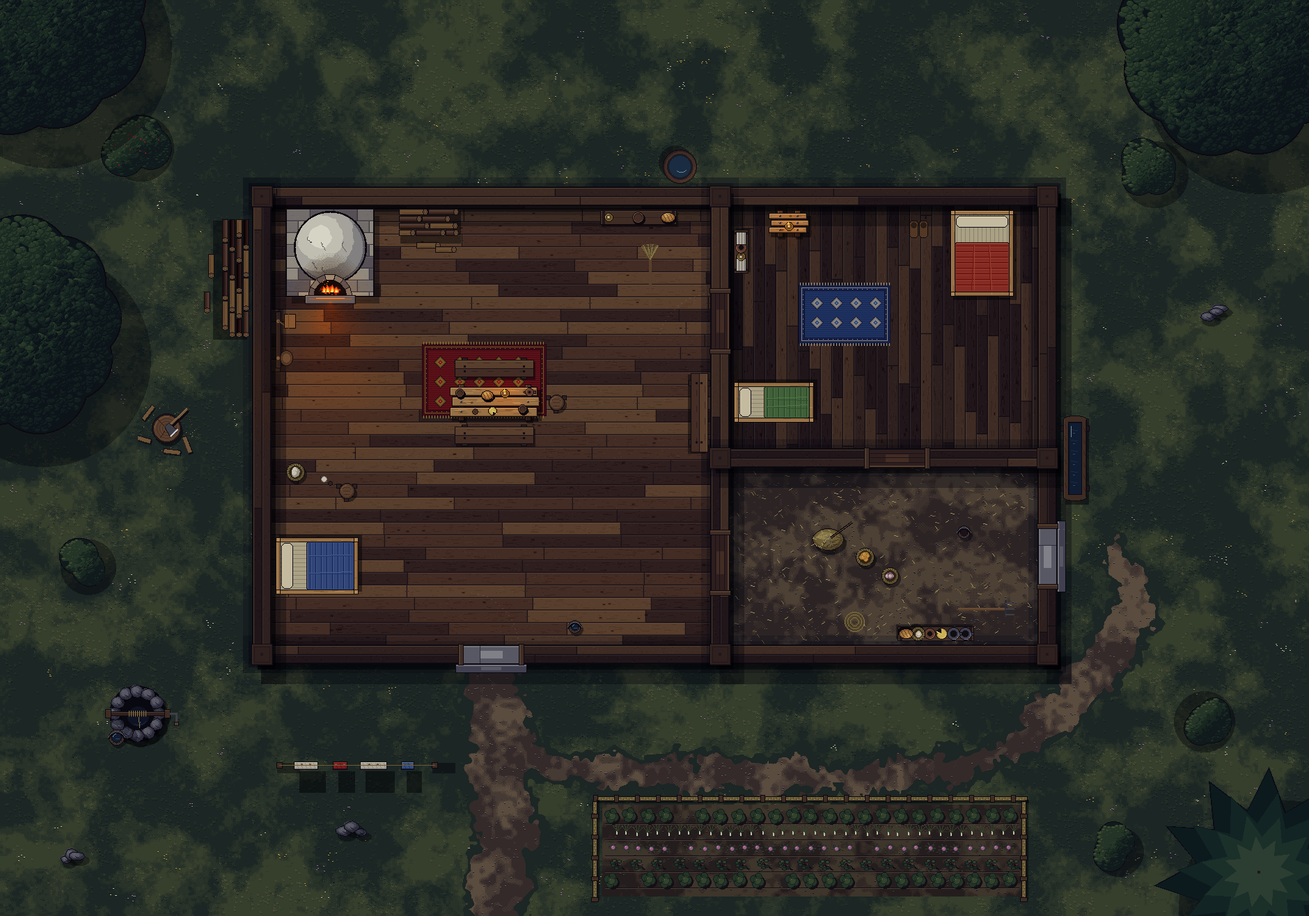
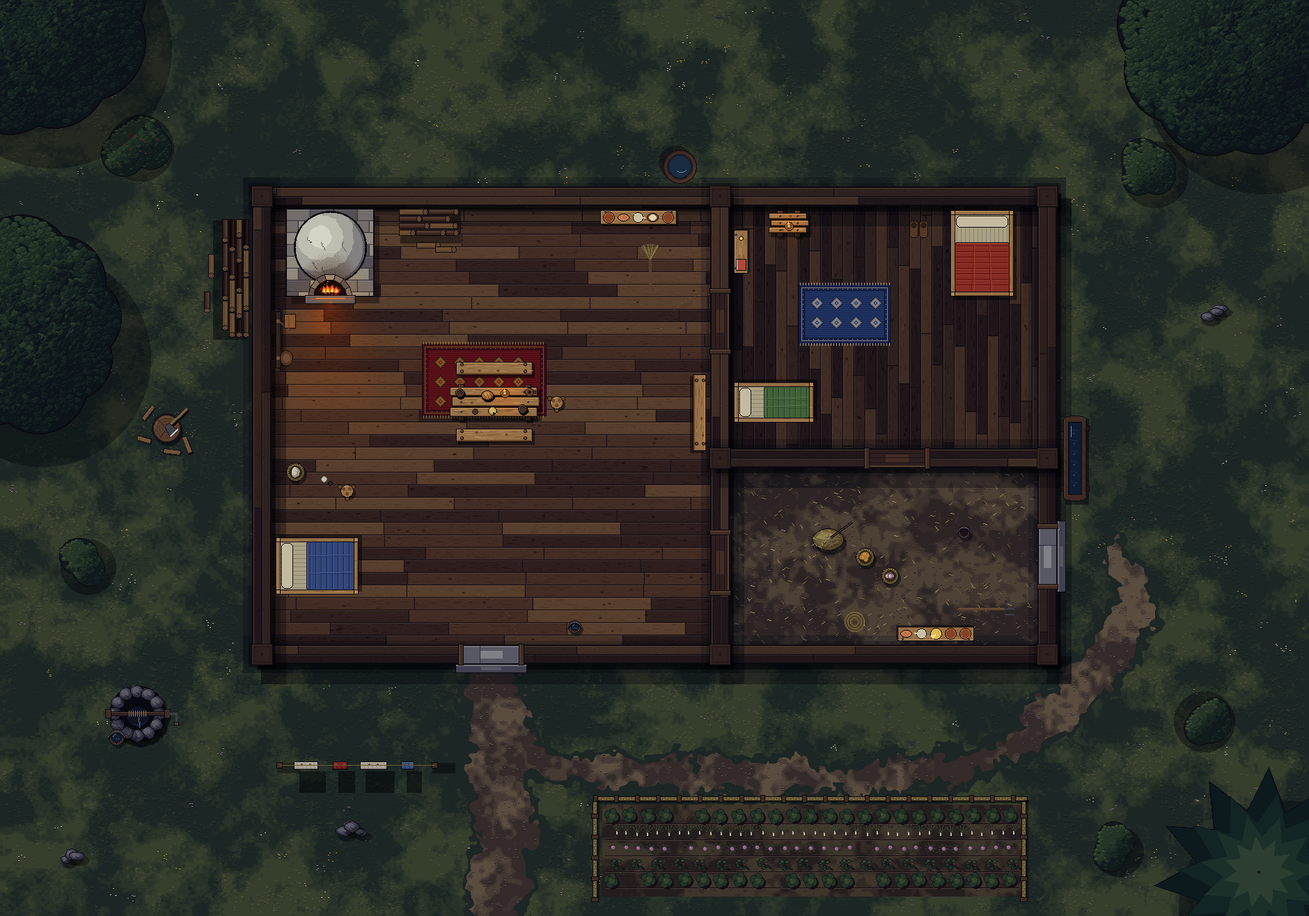
Object library batch 2: benches, stools, shelves, dressers by age; fireplace, kitchen range, sink (B6342)
Claude-Session: https://claude.ai/code/session_01YQQrYfP2kNs2CAZm7hDnpg

diff --git a/tools/pixelmap/library/kitchen.py b/tools/pixelmap/library/kitchen.py
@@ -1,0 +1,272 @@
+"""Kitchen, hearth and seating pieces drawn for the library, one look for each age (B6342). Same rules as house.py:
+footprint in squares, front toward the south, v["age"] picks the look, nothing drawn past the footprint."""
+import math
+
+from px import OUT
+from library.art import (tone, slab, rivet, knob, cloth, box_px, OAK, DEAL, WALNUT, PAINT_RED, PAINT_BLUE, PAINT_GREEN, IRON, BRASS,
+                         STEEL, WHITE, LINEN, WOOL_RED, WOOL_BLUE, WOOL_BROWN, PLASTIC_GREY, PLASTIC_WHITE, COMPOSITE, GLOW, ramp)
+
+STONE = ramp((150, 146, 138), 18, (0, 0, 4))
+BRICK = ramp((150, 80, 60), 18)
+CLAY = ramp((176, 104, 66), 18)
+SLATE = ramp((70, 74, 82), 14, (0, 2, 6))
+CREAM = ramp((226, 214, 178), 10)
+TILE_GREEN = ramp((66, 112, 96), 16)
+
+
+def _crock(d, x, y, r, C):
+    d.ellipse([x - r, y - r, x + r, y + r], fill=C[2], outline=OUT); d.ellipse([x - r + 2, y - r + 2, x + r - 2, y + r - 2], fill=C[0]); d.point((x - r + 2, y - r + 2), fill=C[4])
+
+
+def _plate(d, x, y, r, C=WHITE, rim=PAINT_BLUE):
+    d.ellipse([x - r, y - r, x + r, y + r], fill=C[3], outline=OUT); d.ellipse([x - r + 2, y - r + 2, x + r - 2, y + r - 2], outline=rim[2]); d.point((x - 1, y - 1), fill=C[4])
+
+
+# ---------------------------------------------------------------- seats
+def bench(tm, x, y, w, h, st, v):
+    """A bench from above. medieval: a split plank on stake legs whose ends poke through; early: a joined form with a
+    moulded edge; 1800s: a settle with a high back along the north edge; 1900s: a painted kitchen bench; modern: a
+    slatted bench on steel legs; future: a moulded bench with a lit strip."""
+    d = tm.d; age = v.get("age", "medieval"); X0, Y0, X1, Y1 = box_px(x, y, w, h, 2); rng = tm.rng
+    tm.shade((X0 + 3, Y0 + 4, X1 + 4, Y1 + 4), f=.56)
+    if age == "medieval":
+        slab(tm, X0, Y0 + 1, X1, Y1 - 1, OAK, "x", knots=2, rng=rng)
+        d.line([X0 + 2, Y1 - 3, X1 - 2, Y1 - 3], fill=OAK[0])                                          # the split's rough edge
+        for lx in (X0 + 8, X1 - 10):
+            for ly in (Y0 + 4, Y1 - 6): d.ellipse([lx - 2, ly - 2, lx + 2, ly + 2], fill=OAK[0], outline=OUT); d.point((lx - 1, ly - 1), fill=OAK[3])
+    elif age == "early modern":
+        slab(tm, X0, Y0, X1, Y1, WALNUT, "x", rng=rng); d.line([X0 + 3, Y0 + 3, X1 - 3, Y0 + 3], fill=WALNUT[3]); d.line([X0 + 3, Y1 - 3, X1 - 3, Y1 - 3], fill=WALNUT[0])
+        for lx in (X0 + 1, X1 - 5): d.rectangle([lx, Y0 + 1, lx + 4, Y1 - 1], fill=WALNUT[1], outline=OUT)
+    elif age == "1800s":
+        bk = max(6, (Y1 - Y0) // 3)
+        slab(tm, X0, Y0 + bk, X1, Y1, OAK, "x", rng=rng)
+        d.rectangle([X0, Y0, X1, Y0 + bk], fill=OAK[3], outline=OUT); d.line([X0 + 1, Y0 + 1, X1 - 1, Y0 + 1], fill=OAK[4])   # the settle's high back
+        for k in range(X0 + 12, X1 - 6, 12): d.line([k, Y0 + 2, k, Y0 + bk - 1], fill=OAK[1])
+        for ax in (X0, X1 - 5): d.rectangle([ax, Y0 + bk, ax + 5, Y1], fill=OAK[3], outline=OUT)
+        cloth(tm, X0 + 8, Y0 + bk + 2, X0 + 8 + (X1 - X0) // 3, Y1 - 2, WOOL_RED, folds="x", n=1, rng=rng)        # a cushion
+    elif age == "1900s":
+        d.rectangle([X0, Y0, X1, Y1], fill=PAINT_GREEN[2], outline=OUT); d.line([X0 + 1, Y0 + 1, X1 - 1, Y0 + 1], fill=PAINT_GREEN[4]); d.line([X0 + 1, Y1 - 1, X1 - 1, Y1 - 1], fill=PAINT_GREEN[0])
+        for k in range(X0 + 20, X1 - 10, 40): d.line([k, Y0 + 2, k, Y1 - 2], fill=PAINT_GREEN[1])                   # the board joints
+        for lx in (X0 + 6, X1 - 6): d.point((lx, (Y0 + Y1) // 2), fill=IRON[4])
+    elif age == "modern":
+        n = 3; sh = (Y1 - Y0) / n
+        for i in range(n): d.rectangle([X0, Y0 + i * sh, X1, Y0 + (i + 1) * sh - 2], fill=DEAL[3 - i % 2], outline=OUT)
+        for lx in (X0 + 10, X1 - 12): d.rectangle([lx, Y0 - 1, lx + 2, Y1 + 1], fill=STEEL[2])
+    else:
+        d.rounded_rectangle([X0, Y0, X1, Y1], 5, fill=COMPOSITE[2], outline=OUT); d.line([X0 + 6, Y1 - 2, X1 - 6, Y1 - 2], fill=GLOW[1])
+
+
+def stool(tm, x, y, w, h, st, v):
+    """A stool from above: a round seat with the legs splayed past it. medieval: three stake legs through a rough
+    round; early: a joint stool, square with turned legs at the corners; 1800s: a milking stool, round with three
+    legs; 1900s: a kitchen stool, painted; modern: a bar stool, steel ring and a black seat; future: a lit pod."""
+    d = tm.d; age = v.get("age", "medieval"); X0, Y0, X1, Y1 = box_px(x, y, w, h, 2); cx, cy = (X0 + X1) // 2, (Y0 + Y1) // 2; r = (X1 - X0) // 2 - 3
+    tm.shade((cx - r + 3, cy - r + 4, cx + r + 4, cy + r + 4), f=.56, kind="ellipse")
+    if age in ("medieval", "1800s"):
+        C = OAK if age == "medieval" else WALNUT
+        for a in (90, 210, 330):                                                                             # legs splayed past the seat
+            ra = math.radians(a); lx, ly = cx + math.cos(ra) * (r + 2), cy + math.sin(ra) * (r + 2); d.ellipse([lx - 3, ly - 3, lx + 3, ly + 3], fill=C[0], outline=OUT)
+        d.ellipse([cx - r, cy - r, cx + r, cy + r], fill=C[2], outline=OUT); d.arc([cx - r + 2, cy - r + 2, cx + r - 2, cy + r - 2], 180, 270, fill=C[4])
+        for a in (90, 210, 330): ra = math.radians(a); d.ellipse([cx + math.cos(ra) * r * .55 - 2, cy + math.sin(ra) * r * .55 - 2, cx + math.cos(ra) * r * .55 + 2, cy + math.sin(ra) * r * .55 + 2], fill=C[0])
+        d.line([cx - r + 4, cy, cx + r - 4, cy - 2], fill=C[1])
+    elif age == "early modern":
+        slab(tm, cx - r, cy - r, cx + r, cy + r, WALNUT, "x", rng=tm.rng)
+        for lx, ly in ((cx - r, cy - r), (cx + r - 4, cy - r), (cx - r, cy + r - 4), (cx + r - 4, cy + r - 4)): d.rectangle([lx, ly, lx + 4, ly + 4], fill=WALNUT[0], outline=OUT)
+    elif age == "1900s":
+        d.ellipse([cx - r, cy - r, cx + r, cy + r], fill=PAINT_BLUE[2], outline=OUT); d.arc([cx - r + 2, cy - r + 2, cx + r - 2, cy + r - 2], 180, 270, fill=PAINT_BLUE[4])
+        d.ellipse([cx - 3, cy - 3, cx + 3, cy + 3], fill=PAINT_BLUE[1])
+    elif age == "modern":
+        d.ellipse([cx - r, cy - r, cx + r, cy + r], outline=STEEL[3], width=2)
+        d.ellipse([cx - r + 4, cy - r + 4, cx + r - 4, cy + r - 4], fill=PLASTIC_GREY[0], outline=OUT); d.arc([cx - r + 5, cy - r + 5, cx + r - 5, cy + r - 5], 190, 260, fill=PLASTIC_GREY[3])
+    else:
+        d.ellipse([cx - r, cy - r, cx + r, cy + r], fill=COMPOSITE[2], outline=OUT); d.ellipse([cx - r + 3, cy - r + 3, cx + r - 3, cy + r - 3], outline=GLOW[1])
+
+
+# ---------------------------------------------------------------- shelves and dressers
+GOODS = {
+    "medieval": ("crock", "loaf", "jug", "bowl", "crock", "cheese"),
+    "early modern": ("plate", "jug", "crock", "loaf", "plate", "candle"),
+    "1800s": ("jar", "plate", "jug", "jar", "tin", "candle"),
+    "1900s": ("tin", "jar", "tin", "plate", "jar", "tin"),
+    "modern": ("box", "jar", "box", "tin", "plant", "box"),
+    "Future Darkness": ("cell", "box", "cell", "box", "cell", "box"),
+}
+
+
+def _good(d, k, x, y, s):
+    """One thing on a shelf seen from above, s pixels across, centred at x, y."""
+    r = s // 2
+    if k == "crock": _crock(d, x, y, r, CLAY)
+    elif k == "jug": _crock(d, x, y, r - 1, CREAM); d.line([x + r - 2, y, x + r + 2, y], fill=CREAM[1], width=2)
+    elif k == "bowl": d.ellipse([x - r, y - r + 2, x + r, y + r - 2], fill=WALNUT[2], outline=OUT); d.ellipse([x - r + 3, y - r + 4, x + r - 3, y + r - 4], fill=CREAM[2])
+    elif k == "loaf": d.ellipse([x - r, y - r + 3, x + r, y + r - 3], fill=CLAY[3], outline=OUT); d.line([x - 2, y - 2, x + 2, y + 2], fill=CLAY[1]); d.line([x + 1, y - 3, x + 4, y], fill=CLAY[1])
+    elif k == "cheese": d.ellipse([x - r, y - r, x + r, y + r], fill=(222, 186, 80), outline=OUT); d.pieslice([x - r, y - r, x + r, y + r], 300, 340, fill=(246, 222, 130))
+    elif k == "plate": _plate(d, x, y, r)
+    elif k == "candle": d.ellipse([x - 3, y - 3, x + 3, y + 3], fill=BRASS[2], outline=OUT); d.ellipse([x - 1, y - 1, x + 1, y + 1], fill=WHITE[4])
+    elif k == "jar": d.rectangle([x - r + 1, y - r + 1, x + r - 1, y + r - 1], fill=(120, 150, 150), outline=OUT); d.rectangle([x - r + 3, y - r + 3, x + r - 3, y + r - 3], fill=PAINT_RED[2])
+    elif k == "tin": d.ellipse([x - r + 1, y - r + 1, x + r - 1, y + r - 1], fill=STEEL[2], outline=OUT); d.ellipse([x - r + 3, y - r + 3, x + r - 3, y + r - 3], outline=STEEL[4])
+    elif k == "box": d.rectangle([x - r, y - r + 1, x + r, y + r - 1], fill=(PAINT_RED, PAINT_BLUE, CREAM)[(x // 7) % 3][3], outline=OUT); d.line([x - r + 1, y - r + 2, x + r - 1, y - r + 2], fill=WHITE[4])
+    elif k == "plant": d.ellipse([x - r, y - r, x + r, y + r], fill=(60, 120, 60), outline=OUT); d.ellipse([x - 2, y - 3, x + 3, y + 2], fill=(110, 170, 90))
+    elif k == "cell": d.rectangle([x - r + 1, y - r + 1, x + r - 1, y + r - 1], fill=COMPOSITE[1], outline=GLOW[1])
+
+
+def shelf(tm, x, y, w, h, st, v):
+    """A wall shelf seen from above: a board standing off the wall on brackets, the things kept on it in a row along
+    its front. Each age has its board and its goods (crocks and loaves; pewter and jugs; jars and tins; packets;
+    sealed cells). A variant may name the goods."""
+    d = tm.d; age = v.get("age", "medieval"); X0, Y0, X1, Y1 = box_px(x, y, w, h, 2)
+    C = {"medieval": OAK, "early modern": WALNUT, "1800s": DEAL, "1900s": PAINT_GREEN, "modern": PLASTIC_WHITE, "Future Darkness": COMPOSITE}[age]
+    tm.shade((X0 + 2, Y0 + 3, X1 + 3, Y1 + 3), f=.6)
+    slab(tm, X0, Y0, X1, Y1, C, "x", rng=tm.rng)
+    for bx in (X0 + 6, X1 - 8): d.rectangle([bx, Y0, bx + 2, Y0 + 4], fill=IRON[2] if age != "Future Darkness" else GLOW[1])
+    goods = v.get("goods") or GOODS[age]; s = min(16, Y1 - Y0 - 4); n = max(2, int((X1 - X0 - 6) / (s + 3)))
+    for i in range(n):
+        gx = X0 + 4 + s // 2 + i * (X1 - X0 - 8 - s) / max(1, n - 1); _good(d, goods[i % len(goods)], int(gx), (Y0 + Y1) // 2, s)
+
+
+def dresser(tm, x, y, w, h, st, v):
+    """A dresser against the wall: plates stood up on its back rack along the wall, its worktop toward the room with a
+    jug and a bowl on it, drawer knobs on its front edge. early: oak with pewter; 1800s: painted pine with blue and
+    white plates; 1900s: a cream kitchen cabinet with glass doors above; modern: fitted kitchen units, a worktop with
+    a kettle; future: a sealed wall unit with a lit panel."""
+    d = tm.d; age = v.get("age", "early modern"); X0, Y0, X1, Y1 = box_px(x, y, w, h, 2); rng = tm.rng
+    C = {"early modern": OAK, "1800s": PAINT_BLUE, "1900s": CREAM, "modern": PLASTIC_WHITE, "Future Darkness": COMPOSITE}[age]
+    tm.shade((X0 + 4, Y0 + 6, X1 + 7, Y1 + 6), f=.52)
+    rk = (Y1 - Y0) * 2 // 5
+    if age == "modern":
+        slab(tm, X0, Y0, X1, Y1, ramp((120, 116, 110), 12), "x", rng=rng)                                      # the worktop
+        d.rectangle([X0 + 8, Y0 + 4, X0 + 22, Y0 + 16], fill=STEEL[3], outline=OUT); d.line([X0 + 22, Y0 + 8, X0 + 26, Y0 + 8], fill=STEEL[1], width=2)   # a kettle
+        _good(d, "plant", X1 - 16, Y0 + 12, 14); _good(d, "box", X0 + 40, Y0 + 10, 12)
+        for k in range(X0 + 2, X1 - 2, 28): d.line([k, Y1 - 2, k + 26, Y1 - 2], fill=PLASTIC_WHITE[4]); d.rectangle([k + 10, Y1 - 4, k + 16, Y1 - 3], fill=STEEL[2])
+        return
+    if age == "Future Darkness":
+        d.rectangle([X0, Y0, X1, Y1], fill=COMPOSITE[2], outline=OUT); d.rectangle([X0 + (X1 - X0) // 3, Y0 + 4, X1 - (X1 - X0) // 3, Y0 + rk], fill=GLOW[0], outline=GLOW[1])
+        d.line([X0 + 4, Y1 - 3, X1 - 4, Y1 - 3], fill=GLOW[1]); return
+    d.rectangle([X0, Y0, X1, Y0 + rk], fill=C[1], outline=OUT); d.line([X0 + 1, Y0 + 1, X1 - 1, Y0 + 1], fill=C[3])   # the rack's top board
+    pr = (rk - 4) // 2
+    if age == "1900s":
+        d.rectangle([X0 + 3, Y0 + 3, X1 - 3, Y0 + rk - 3], fill=(150, 176, 186), outline=C[0])                       # glass doors over the cups
+        d.line([(X0 + X1) // 2, Y0 + 3, (X0 + X1) // 2, Y0 + rk - 3], fill=C[0]); d.line([X0 + 6, Y0 + 5, X0 + 12, Y0 + rk - 5], fill=WHITE[4])
+    else:
+        for px_ in range(X0 + 4 + pr, X1 - pr - 2, 2 * pr + 2):                                                  # plates stood up along the wall
+            _plate(d, px_, Y0 + rk // 2, pr, STEEL if age == "early modern" else WHITE, STEEL if age == "early modern" else PAINT_BLUE)
+    slab(tm, X0, Y0 + rk, X1, Y1, C, "x", rng=rng)                                                            # the worktop
+    _good(d, "jug", X0 + 14, Y0 + rk + (Y1 - Y0 - rk) // 2, 14); _good(d, "bowl", X1 - 18, Y0 + rk + (Y1 - Y0 - rk) // 2, 16)
+    for k in range(X0 + (X1 - X0) // 6, X1 - 4, (X1 - X0) // 3): knob(tm, k, Y1 - 3, BRASS, 2)
+
+
+# ---------------------------------------------------------------- fires and cooking
+def _fire(tm, cx, cy, w, h, glow=170):
+    tm.fire(int(cx), int(cy), int(w), int(h), seed=int(tm.rng.integers(0, 99))); tm.hearths = getattr(tm, "hearths", []) + [(int(cx), int(cy), glow, None)]
+
+
+def fireplace(tm, x, y, w, h, st, v):
+    """A fireplace built against the wall, its fire burning in the back of the hearth with the stone or tiles round
+    it, the hearthstone stepping out toward the room. medieval: a stone hood over a raised hearth with firedogs;
+    early: a wide brick hearth with a crane holding a pot over the fire; 1800s: an iron grate with a brass fender;
+    1900s: a tiled surround with a small coal grate and a scuttle; modern: a wood-burning stove on a slate hearth;
+    future: a heat panel with a lit grille. Lit: the fire throws light on the floor in front."""
+    d = tm.d; age = v.get("age", "medieval"); X0, Y0, X1, Y1 = box_px(x, y, w, h, 2); cx = (X0 + X1) // 2; W_ = X1 - X0; H_ = Y1 - Y0
+    lit = st != "out"
+    if age in ("medieval", "early modern"):
+        C = STONE if age == "medieval" else BRICK
+        d.rectangle([X0, Y0, X1, Y1], fill=C[2], outline=OUT)                                                    # the hearth floor
+        for k in range(Y0 + 10, Y1 - 2, 10): d.line([X0 + 2, k, X1 - 2, k], fill=C[1])
+        for k in range(X0 + 14, X1 - 2, 14): d.line([k, Y0 + 2, k, Y1 - 2], fill=C[1])
+        d.rectangle([X0, Y0, X1, Y0 + H_ // 3], fill=C[3], outline=OUT); d.line([X0 + 1, Y0 + 1, X1 - 1, Y0 + 1], fill=C[4])   # the hood or chimney breast
+        for jx in (X0, X1 - W_ // 6): d.rectangle([jx, Y0, jx + W_ // 6, Y1 - H_ // 5], fill=C[3], outline=OUT)   # the cheeks
+        bx0, by0, bx1, by1 = X0 + W_ // 6 + 2, Y0 + H_ // 3, X1 - W_ // 6 - 2, Y1 - H_ // 5
+        d.rectangle([bx0, by0, bx1, by1], fill=(36, 30, 28)); d.ellipse([cx - W_ // 6, (by0 + by1) // 2 - 6, cx + W_ // 6, (by0 + by1) // 2 + 6], fill=(70, 64, 62))   # ash
+        for fx in (cx - W_ // 6, cx + W_ // 6 - 4): d.rectangle([fx, by0 + 3, fx + 4, by1 - 2], fill=IRON[2], outline=OUT)   # firedogs
+        if lit: _fire(tm, cx, (by0 + by1) // 2, W_ // 4, (by1 - by0) // 2)
+        if age == "early modern":
+            d.line([bx0 + 2, by0 + 4, cx + 4, by0 + 4], fill=IRON[1], width=3)                                      # the crane and its pot
+            d.ellipse([cx - 9, by0 + 3, cx + 9, by0 + 18], fill=IRON[1], outline=OUT); d.ellipse([cx - 6, by0 + 6, cx + 6, by0 + 14], fill=(110, 80, 50))
+    elif age == "1800s":
+        d.rectangle([X0, Y0, X1, Y0 + H_ * 2 // 3], fill=STONE[3], outline=OUT); d.line([X0 + 1, Y0 + 1, X1 - 1, Y0 + 1], fill=STONE[4])   # the mantel
+        d.rectangle([X0 + W_ // 4, Y0 + H_ // 4, X1 - W_ // 4, Y0 + H_ * 2 // 3], fill=(36, 30, 28), outline=OUT)
+        d.rectangle([X0 + 4, Y0 + H_ * 2 // 3, X1 - 4, Y1], fill=STONE[2], outline=OUT)                           # the hearthstone
+        gx0, gx1 = X0 + W_ // 4 + 4, X1 - W_ // 4 - 4; gy = Y0 + H_ // 2
+        if lit: _fire(tm, cx, gy, (gx1 - gx0) // 2, H_ // 6, 140)
+        for k in range(gx0, gx1, 4): d.line([k, gy - 6, k, gy + 8], fill=IRON[1])                                 # the grate bars
+        d.line([X0 + 8, Y1 - 4, X1 - 8, Y1 - 4], fill=BRASS[3], width=2); d.line([X0 + 8, Y0 + H_ * 2 // 3 + 4, X0 + 8, Y1 - 4], fill=BRASS[3], width=2); d.line([X1 - 8, Y0 + H_ * 2 // 3 + 4, X1 - 8, Y1 - 4], fill=BRASS[3], width=2)
+        _good(d, "candle", X0 + 10, Y0 + 6, 6); _good(d, "candle", X1 - 10, Y0 + 6, 6)
+    elif age == "1900s":
+        d.rectangle([X0, Y0, X1, Y0 + H_ * 2 // 3], fill=TILE_GREEN[2], outline=OUT)
+        for k in range(X0 + 8, X1, 8): d.line([k, Y0 + 2, k, Y0 + H_ * 2 // 3 - 2], fill=TILE_GREEN[1])
+        d.rectangle([X0, Y0, X1, Y0 + 6], fill=WALNUT[3], outline=OUT)                                          # the shelf on top
+        d.rectangle([cx - W_ // 6, Y0 + H_ // 3, cx + W_ // 6, Y0 + H_ * 2 // 3], fill=(36, 30, 28), outline=OUT)
+        if lit: _fire(tm, cx, Y0 + H_ // 2, W_ // 8, H_ // 8, 120)
+        d.rectangle([X0 + 4, Y0 + H_ * 2 // 3, X1 - 4, Y1], fill=TILE_GREEN[3], outline=OUT)
+        d.ellipse([X1 - 22, Y1 - 18, X1 - 6, Y1 - 3], fill=IRON[2], outline=OUT); d.ellipse([X1 - 19, Y1 - 15, X1 - 9, Y1 - 6], fill=(30, 30, 34))   # the coal scuttle
+    elif age == "modern":
+        d.rectangle([X0, Y0, X1, Y1], fill=SLATE[2], outline=OUT); d.line([X0 + 1, Y0 + 1, X1 - 1, Y0 + 1], fill=SLATE[4])
+        sx0, sx1, sy0, sy1 = cx - W_ // 4, cx + W_ // 4, Y0 + 4, Y0 + H_ * 3 // 5
+        d.rectangle([sx0, sy0, sx1, sy1], fill=IRON[1], outline=OUT); d.line([sx0 + 2, sy0 + 2, sx1 - 2, sy0 + 2], fill=IRON[4])   # the stove
+        d.ellipse([cx - 5, sy0 + 4, cx + 5, sy0 + 14], fill=IRON[0], outline=IRON[3])                             # its flue
+        d.rectangle([sx0 + 4, sy1 - 10, sx1 - 4, sy1 - 2], fill=(255, 170, 70) if lit else (40, 34, 32), outline=OUT)   # the glass door
+        if lit: tm.hearths = getattr(tm, "hearths", []) + [(cx, sy1, 110, None)]
+        d.rectangle([X1 - 18, Y1 - 22, X1 - 4, Y1 - 4], fill=WALNUT[2], outline=OUT); d.line([X1 - 16, Y1 - 13, X1 - 6, Y1 - 13], fill=WALNUT[0])   # a log basket
+    else:
+        d.rectangle([X0, Y0, X1, Y0 + H_ // 2], fill=COMPOSITE[2], outline=OUT)
+        for k in range(X0 + 6, X1 - 4, 5): d.line([k, Y0 + 6, k, Y0 + H_ // 2 - 4], fill=(GLOW[1] if lit else COMPOSITE[0]))
+        if lit: tm.hearths = getattr(tm, "hearths", []) + [(cx, Y0 + H_ // 2, 100, None)]
+
+
+def cooker(tm, x, y, w, h, st, v):
+    """A kitchen range against the wall, its hot plates or rings on top, its oven door and handles along the front
+    edge. 1800s: a black cast-iron range with round lids, a brass rail and the fire glowing through its grate; 1900s: a
+    cream enamel gas cooker with four burners; modern: a white electric cooker with four black rings and knobs;
+    future: a dark induction top with lit rings."""
+    d = tm.d; age = v.get("age", "1800s"); X0, Y0, X1, Y1 = box_px(x, y, w, h, 2); W_, H_ = X1 - X0, Y1 - Y0
+    tm.shade((X0 + 4, Y0 + 5, X1 + 5, Y1 + 5), f=.5)
+    C = {"1800s": IRON, "1900s": CREAM, "modern": PLASTIC_WHITE, "Future Darkness": COMPOSITE}[age]
+    d.rectangle([X0, Y0, X1, Y1], fill=C[2], outline=OUT); d.line([X0 + 1, Y0 + 1, X1 - 1, Y0 + 1], fill=C[4])
+    rr = min(W_ // 5, H_ // 4)
+    spots = [(X0 + W_ // 4, Y0 + H_ // 3), (X1 - W_ // 4, Y0 + H_ // 3), (X0 + W_ // 4, Y0 + H_ * 2 // 3 - 2), (X1 - W_ // 4, Y0 + H_ * 2 // 3 - 2)]
+    if age == "1800s":
+        d.rectangle([X0, Y0, X1, Y0 + 6], fill=IRON[3], outline=OUT)                                            # the flue back
+        for sx, sy in spots[:2]: d.ellipse([sx - rr, sy - rr, sx + rr, sy + rr], fill=IRON[1], outline=OUT); d.ellipse([sx - 2, sy - 2, sx + 2, sy + 2], fill=IRON[3])
+        d.rectangle([X0 + W_ // 3, Y0 + H_ * 3 // 5, X1 - W_ // 3, Y1 - 6], fill=(255, 140, 50), outline=OUT)       # the fire behind its bars
+        for k in range(X0 + W_ // 3 + 3, X1 - W_ // 3, 4): d.line([k, Y0 + H_ * 3 // 5, k, Y1 - 6], fill=IRON[0])
+        d.line([X0 + 3, Y1 - 3, X1 - 3, Y1 - 3], fill=BRASS[3], width=2)
+        tm.hearths = getattr(tm, "hearths", []) + [((X0 + X1) // 2, Y1 - 6, 110, None)]
+    elif age == "1900s":
+        for sx, sy in spots: d.ellipse([sx - rr, sy - rr, sx + rr, sy + rr], fill=IRON[1], outline=OUT); d.ellipse([sx - rr + 3, sy - rr + 3, sx + rr - 3, sy + rr - 3], outline=IRON[3])
+        for k in range(4): knob(tm, X0 + W_ * (k + 1) // 5, Y1 - 3, IRON, 2)
+    elif age == "modern":
+        for sx, sy in spots: d.ellipse([sx - rr, sy - rr, sx + rr, sy + rr], fill=(24, 24, 28), outline=OUT); d.ellipse([sx - rr + 3, sy - rr + 3, sx + rr - 3, sy + rr - 3], outline=(60, 60, 66))
+        for k in range(4): knob(tm, X0 + W_ * (k + 1) // 5, Y1 - 3, STEEL, 2)
+    else:
+        d.rectangle([X0 + 2, Y0 + 2, X1 - 2, Y1 - 2], fill=(20, 22, 28))
+        for sx, sy in spots: d.ellipse([sx - rr, sy - rr, sx + rr, sy + rr], outline=GLOW[1] if st != "out" else COMPOSITE[3])
+
+
+def sink(tm, x, y, w, h, st, v):
+    """A sink against the wall: its basin toward the room, the drain dark at the bottom, the water source on the wall
+    side. 1800s: a shallow stone sink with an iron hand pump; 1900s: a deep white glazed sink on a wooden draining
+    board with two brass taps; modern: a steel sink set in a counter with a mixer tap; future: a dark basin with a
+    sensor spout."""
+    d = tm.d; age = v.get("age", "1800s"); X0, Y0, X1, Y1 = box_px(x, y, w, h, 2); W_, H_ = X1 - X0, Y1 - Y0
+    tm.shade((X0 + 3, Y0 + 4, X1 + 4, Y1 + 4), f=.55)
+    if age == "1800s":
+        d.rectangle([X0, Y0, X1, Y1], fill=STONE[3], outline=OUT); d.line([X0 + 1, Y0 + 1, X1 - 1, Y0 + 1], fill=STONE[4])
+        d.rectangle([X0 + 5, Y0 + 10, X1 - 5, Y1 - 4], fill=STONE[1], outline=STONE[0]); d.ellipse([X1 - 16, Y1 - 12, X1 - 10, Y1 - 6], fill=(30, 28, 30))
+        d.rectangle([X0 + 6, Y0, X0 + 16, Y0 + 10], fill=IRON[2], outline=OUT); d.line([X0 + 11, Y0 + 10, X0 + 11, Y0 + 16], fill=IRON[1], width=3)   # the pump and its spout
+        d.line([X0 + 16, Y0 + 4, X0 + 34, Y0 + 2], fill=IRON[3], width=3)                                         # its handle
+    elif age == "1900s":
+        bw = W_ * 3 // 5
+        slab(tm, X0 + bw, Y0 + 4, X1, Y1, DEAL, "y", rng=tm.rng)                                                  # the draining board, fluted
+        for k in range(X0 + bw + 5, X1 - 3, 5): d.line([k, Y0 + 8, k, Y1 - 4], fill=DEAL[1])
+        d.rectangle([X0, Y0 + 2, X0 + bw, Y1], fill=WHITE[3], outline=OUT); d.rectangle([X0 + 5, Y0 + 9, X0 + bw - 5, Y1 - 5], fill=WHITE[1], outline=WHITE[0])
+        d.ellipse([X0 + bw // 2 - 3, Y1 - 13, X0 + bw // 2 + 3, Y1 - 7], fill=(40, 40, 44))
+        for tx in (X0 + bw // 3, X0 + bw * 2 // 3): knob(tm, tx, Y0 + 4, BRASS, 3)
+    elif age == "modern":
+        slab(tm, X0, Y0, X1, Y1, ramp((120, 116, 110), 12), "x", rng=tm.rng)
+        bx0, bx1 = X0 + W_ // 5, X1 - W_ // 5
+        d.rounded_rectangle([bx0, Y0 + 7, bx1, Y1 - 5], 5, fill=STEEL[3], outline=OUT); d.rounded_rectangle([bx0 + 3, Y0 + 10, bx1 - 3, Y1 - 8], 4, fill=STEEL[1])
+        d.ellipse([(bx0 + bx1) // 2 - 3, Y1 - 15, (bx0 + bx1) // 2 + 3, Y1 - 9], fill=STEEL[0])
+        d.line([(bx0 + bx1) // 2, Y0 + 3, (bx0 + bx1) // 2, Y0 + 13], fill=STEEL[4], width=3); knob(tm, (bx0 + bx1) // 2, Y0 + 3, STEEL, 3)
+    else:
+        d.rounded_rectangle([X0, Y0, X1, Y1], 6, fill=COMPOSITE[2], outline=OUT); d.rounded_rectangle([X0 + 6, Y0 + 8, X1 - 6, Y1 - 5], 6, fill=(20, 22, 28))
+        d.rectangle([(X0 + X1) // 2 - 4, Y0 + 2, (X0 + X1) // 2 + 4, Y0 + 6], fill=GLOW[1])

diff --git a/tools/pixelmap/library/catalogue.py b/tools/pixelmap/library/catalogue.py
@@ -18,6 +18,7 @@ import dress as dr
 from px import R, T, OUT
 from library.core import add, YEAR_END
 from library import house as hs
+from library import kitchen as kt
 AGE6 = hs.looks("medieval", "early modern", "1800s", "1900s", "modern", "Future Darkness")
 
 E = YEAR_END
@@ -40,9 +41,9 @@ add("table-long", "long table", "furniture", ((8, 12), (2.5, 3.25)), hs.table, l
     tags=("hall", "inn", "refectory"), ref="hall boards on trestles, 8 to 12 ft")
 add("table-small", "small table", "furniture", ((2.5, 3.75), (2, 2.75)), hs.table, looks=AGE6,
     tags=HOME + ("chamber",), ref="side tables and stands, 2 1/2 to 3 1/2 ft")
-add("bench", "bench", "furniture", ((4, 8), (1, 1.5)), lambda tm, x, y, w, h, st, v: pr.bench(tm, x, y, w, h),
+add("bench", "bench", "furniture", ((4, 8), (1, 1.5)), kt.bench, looks=AGE6,
     tags=HOME + ("kitchen", "street", "yard", "work"), ref="plank benches, a seat 12 to 16 in deep")
-add("stool", "stool", "furniture", (1.5, 1.5), lambda tm, x, y, w, h, st, v: pr.stool(tm, x + w / 2, y + h / 2, rpx(w, h, .4)),
+add("stool", "stool", "furniture", (1.5, 1.5), kt.stool, looks=AGE6,
     tags=HOME + ("kitchen", "work", "craft"), ref="three-legged stools, a seat about 12 in across, the legs splayed past it")
 add("bed", "bed", "furniture", ((4, 5), (6.25, 7)), hs.bed, looks=AGE6,
     front=True, clear=1.5, mount="wall", tags=("home", "chamber", "inn"),
@@ -58,7 +59,7 @@ add("chest", "chest", "container", ((3.5, 5), (1.5, 2.25)),
     front=True, clear=1.5, back=1.5, mount="wall", states=("closed", "open"), openable="chest", tags=("home", "chamber", "store", "shop"),
     variants={"plain": {}, "red": {"paint": "red"}, "blue": {"paint": "blue"}, "green": {"paint": "green"}},
     ref="boarded and painted chests of the 14th to 19th c., 3 1/2 to 5 ft long, 1 1/2 to 2 ft deep; the lid needs 1 1/2 ft behind to open")
-add("dresser", "dresser with plates", "furniture", ((4.5, 6.5), (1.5, 2.25)), lambda tm, x, y, w, h, st, v: dr.t_dresser(tm, x, y, w, h),
+add("dresser", "dresser with plates", "furniture", ((4.5, 6.5), (1.5, 2.25)), kt.dresser, looks=hs.looks("early modern", "1800s", "1900s", "modern", "Future Darkness", start=1),
     front=True, clear=2, mount="wall", eras=(1550, E), tags=("home", "kitchen", "inn"), ref="open-shelved dressers from the later 16th c., 5 to 6 ft long, 18 to 24 in deep")
 add("cupboard", "cupboard", "furniture", ((3.5, 5.5), (1.5, 2.25)), hs.cupboard, looks=AGE6, states=("closed", "open"), openable="chest",
     front=True, clear=2, mount="wall", tags=("home", "kitchen", "chamber", "shop", "sacristy"), ref="aumbries and press cupboards, 3 1/2 to 5 ft wide; wardrobes 20 to 24 in deep; the doors need 2 ft before them")
@@ -72,9 +73,9 @@ add("sofa", "sofa", "furniture", ((5, 7.5), (2.75, 3.25)), hs.armchair, looks=hs
     front=True, clear=2, eras=(1781, E), tags=("home", "parlour", "inn", "office"),
     variants={"plain": {}, "red": {"cloth": "red"}, "green": {"cloth": "green"}, "blue": {"cloth": "blue"}}, ref="sofas and settees from the later 18th c., 5 to 7 ft by about 3 ft")
 add("shelf", "wall shelf", "furniture", ((3, 8), (1, 1.5)),
-    lambda tm, x, y, w, h, st, v: pr.shelf(tm, x, y, w, h, v.get("goods") or dr.shelfgoods(tm.rng.random())[:max(2, int(w * 3))]),
+    kt.shelf, looks=AGE6,
     front=True, clear=1.5, mount="wall", tags=("home", "kitchen", "store", "shop", "craft"),
-    variants={"crocks": {}, "linen": {"goods": ["linen", "candle", "jug", "linen"]}, "stores": {"goods": ["pot", "pot", "cheese", "jug", "eggs", "loaf"]}},
+    variants={"crocks": {}, "linen": {"goods": ["box", "candle", "jug", "box"]}, "stores": {"goods": ["crock", "crock", "cheese", "jug", "loaf"]}},
     ref="boards on brackets about a foot deep")
 add("pegrail", "peg rail with clothes", "furniture", ((3, 7), (1.5, 2.25)), lambda tm, x, y, w, h, st, v: dr.t_pegrail(tm, x, y, w, h),
     front=True, mount="wall", tags=("home", "chamber", "inn", "stable"), ref="a peg board with cloaks hung on it, standing out about 18 in")
@@ -111,6 +112,15 @@ add("hearth", "open hearth", "hearth", ((4.5, 6), (4.5, 6)), lambda tm, x, y, w,
     clear=2, tags=("home", "hut", "hall"), eras=(1197, 1900), light={"dim": 5, "bright": 1, "color": "#ff9a40", "kind": "fire"},
     ref="a stone hearth slab about 5 ft square in the middle of the floor")
 
+add("fireplace", "fireplace", "hearth", ((5, 7), (2.5, 3.5)), kt.fireplace, looks=AGE6, states=("lit", "out"),
+    front=True, clear=3, mount="wall", tags=("home", "hall", "inn", "parlour", "chamber"), light={"dim": 5, "bright": 1.5, "color": "#ff9a40", "kind": "fire"},
+    ref="wall fireplaces with hoods from the 12th c., hearths 4 to 6 ft wide; Victorian grates and tiled surrounds about 5 ft; stoves on a 3 ft slate hearth")
+add("cooker", "kitchen range", "hearth", ((3, 4.5), (2, 2.5)), kt.cooker, looks=hs.looks("1800s", "1900s", "modern", "Future Darkness", start=2),
+    front=True, clear=3, mount="wall", eras=(1781, E), tags=("home", "kitchen", "inn"),
+    ref="cast-iron ranges 3 to 4 1/2 ft wide; gas and electric cookers about 2 by 2 ft")
+add("sink", "sink", "fitting", ((2.5, 4.5), (1.5, 2.25)), kt.sink, looks=hs.looks("1800s", "1900s", "modern", "Future Darkness", start=2),
+    front=True, clear=2, mount="wall", eras=(1781, E), tags=("home", "kitchen", "inn", "scullery"),
+    ref="shallow stone sinks about 3 ft by 20 in; Belfast sinks 2 ft with a 2 ft draining board; sink units 3 1/2 to 4 ft")
 
 def _forge(tm, x, y, w, h, st, v):
     """The forge block in the left of the footprint, the bellows inside it on the right (B6331): nothing past the box."""

diff --git a/changes/decisions/B6330.md b/changes/decisions/B6330.md
@@ -52,3 +52,8 @@ Reverse: delete the three rows.
 Tools. Each batch of redrawn objects goes on a review desk with every look in every state, a keep or redraw choice and a note box for each, so each drawing is passed by sight before the maps use it.
 
 Reverse: none needed; the desk only collects answers.
+
+## B6342. Kitchen, hearth and seating, batch 2 (2026-11-15)
+Tools. Benches, stools, wall shelves and dressers get a look for each age in library/kitchen.py (a split-plank bench, a joined form, a high-backed settle, a painted kitchen bench, a slatted bench, a moulded bench; crocks and loaves on the shelf in the middle ages, jars and tins later, packets now). New: a fireplace against the wall (a stone hood with firedogs, a brick hearth with a crane and pot, an iron grate with a brass fender, a tiled surround with a coal scuttle, a wood stove, a heat panel), lit or out; a kitchen range from 1781 and a sink from 1781, each in four looks.
+
+Reverse: point the rows back to props.py and dress.py and delete the three new rows.
